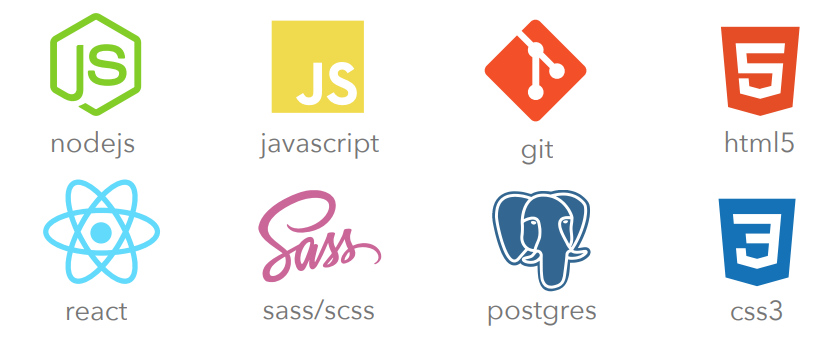
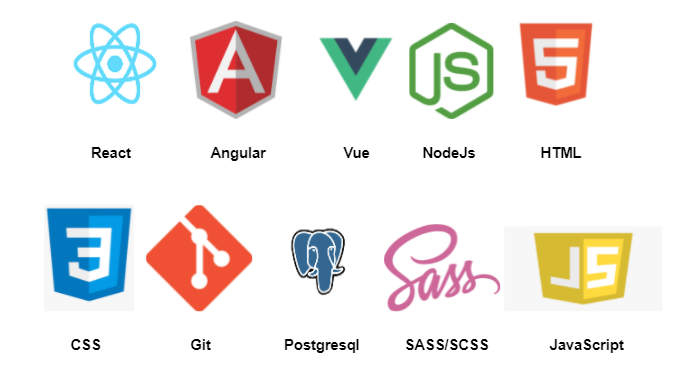
updated skills

diff --git a/src/Components/Skills/Skills.js b/src/Components/Skills/Skills.js
@@ -1,6 +1,6 @@
 import React, { Component } from 'react';
 import './Skills.css';
-import SkillsPic from '../../Images/skills-min.png';
+import SkillsPic from '../../Images/skills.png';
 
 
 class Skills extends Component {
